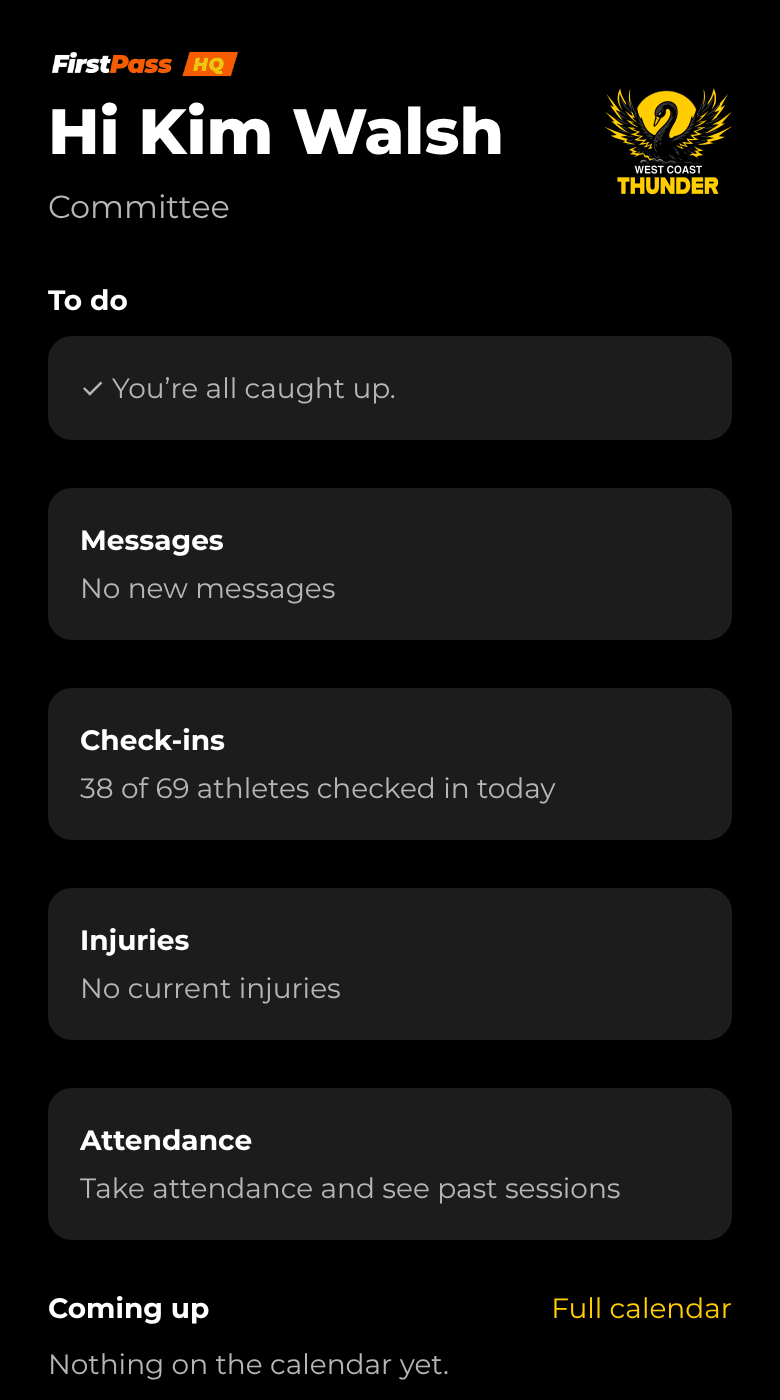
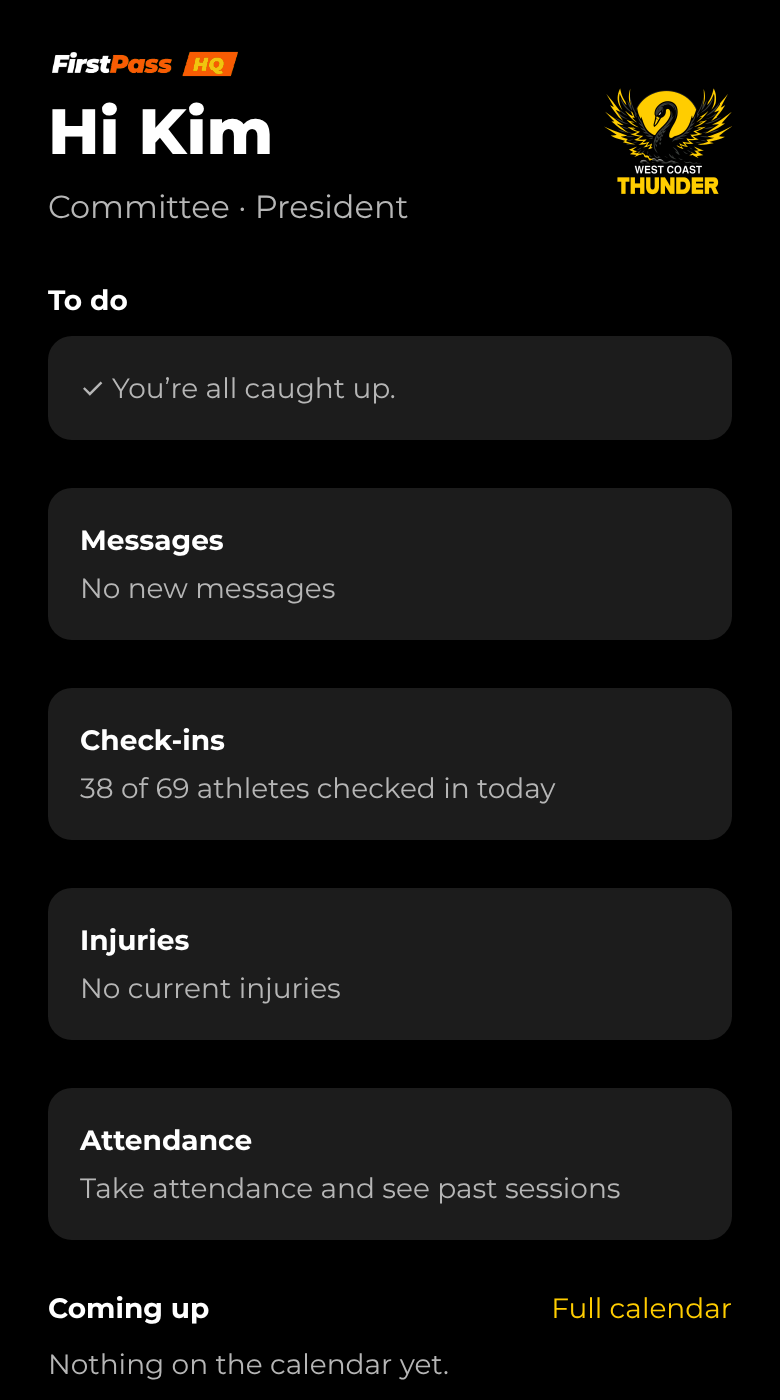
Let members set a preferred name, and committee and admins a title
The home screen greets members by their preferred name. Committee
members and admins can add a title (President, Secretary...) shown with
their role. Both are set from Your details; admins can set a title from
the member page. Additive migration: two nullable columns and three
functions.

Claude-Session: https://claude.ai/code/session_01P9tCKSnQVzBHvy9YQj8xEF

Changed region(s): [[0.3385, 0.0614, 0.6462, 0.1536]]

diff --git a/src/app/admin/[id].tsx b/src/app/admin/[id].tsx
@@ -10,6 +10,7 @@ import { formatDate, isMinor, parseDate } from '@/lib/age';
 import { PROFILE_COLUMNS, useAuth } from '@/lib/auth';
 import { useSquads } from '@/lib/club';
 import {
+  canHoldTitle,
   coachTitleLabels,
   isTeamRole,
   rejectionReasonLabels,
@@ -63,6 +64,7 @@ export default function MemberScreen() {
   const [dateOfBirth, setDateOfBirth] = useState('');
   const [wwccNumber, setWwccNumber] = useState('');
   const [wwccExpires, setWwccExpires] = useState('');
+  const [title, setTitle] = useState('');
   const [guardianIds, setGuardianIds] = useState<string[]>([]);
   const [guardianOf, setGuardianOf] = useState<string[]>([]);
   const [people, setPeople] = useState<Person[]>([]);
@@ -105,6 +107,7 @@ export default function MemberScreen() {
       setDateOfBirth(formatDate(profile.date_of_birth));
       setWwccNumber(profile.wwcc_number ?? '');
       setWwccExpires(formatDate(profile.wwcc_expires_on));
+      setTitle(profile.title ?? '');
       setReason(profile.rejection_reason);
       const links = linksResult.data ?? [];
       setGuardianIds(links.filter((l) => l.athlete_id === id).map((l) => l.guardian_id));
@@ -247,11 +250,24 @@ export default function MemberScreen() {
       p_under_17: hasGuardians,
       p_guardian_ids: hasGuardians ? guardianIds : [],
     });
-    setSaving(null);
     if (rpcError) {
+      setSaving(null);
       setError(rpcError.message);
       return;
     }
+    // After the role, because only committee members and admins have a title.
+    if (status === 'approved' && canHoldTitle(role) && title.trim() !== (member?.title ?? '')) {
+      const { error: titleError } = await supabase.rpc('admin_set_member_title', {
+        p_profile_id: id,
+        p_title: title,
+      });
+      if (titleError) {
+        setSaving(null);
+        setError(titleError.message);
+        return;
+      }
+    }
+    setSaving(null);
     if (isSelf) await refresh();
     router.back();
   }
@@ -305,6 +321,7 @@ export default function MemberScreen() {
 
       <Card>
         <Detail label="Status" value={statusLabels[member.status]} />
+        <Detail label="Preferred name" value={member.preferred_name} />
         <Detail label="Sign-in email" value={member.email} />
         <Detail label="PlayHQ email" value={member.playhq_email} />
         <Detail
@@ -335,6 +352,17 @@ export default function MemberScreen() {
         selected={[role]}
         onToggle={changeRole}
       />
+
+      {canHoldTitle(role) ? (
+        <TextField
+          label="Title"
+          value={title}
+          onChangeText={setTitle}
+          placeholder="President, Secretary, Treasurer…"
+          autoCapitalize="words"
+          maxLength={40}
+        />
+      ) : null}
 
       {inTeams ? (
         <ChipGroup

diff --git a/src/app/my-details.tsx b/src/app/my-details.tsx
@@ -1,0 +1,73 @@
+import { router } from 'expo-router';
+import { useState } from 'react';
+
+import { Screen } from '@/components/screen';
+import { ThemedText } from '@/components/themed-text';
+import { Button, ErrorText, TextField } from '@/components/ui';
+import { useAuth } from '@/lib/auth';
+import { canHoldTitle } from '@/lib/labels';
+import { supabase } from '@/lib/supabase';
+
+export default function MyDetailsScreen() {
+  const { profile, refresh } = useAuth();
+  const [preferredName, setPreferredName] = useState(profile?.preferred_name ?? '');
+  const [title, setTitle] = useState(profile?.title ?? '');
+  const [saving, setSaving] = useState(false);
+  const [error, setError] = useState<string | null>(null);
+
+  const hasTitle = profile?.status === 'approved' && canHoldTitle(profile.role);
+
+  async function save() {
+    setSaving(true);
+    setError(null);
+    const { error: rpcError } = await supabase.rpc('save_my_details', {
+      p_preferred_name: preferredName,
+      p_title: hasTitle ? title : null,
+    });
+    setSaving(false);
+    if (rpcError) {
+      setError(rpcError.message);
+      return;
+    }
+    await refresh();
+    router.back();
+  }
+
+  return (
+    <Screen>
+      <TextField
+        label="Preferred name"
+        value={preferredName}
+        onChangeText={setPreferredName}
+        placeholder={profile?.full_name ?? undefined}
+        autoComplete="name-given"
+        textContentType="nickname"
+        maxLength={40}
+      />
+      <ThemedText type="small" themeColor="textSecondary">
+        What you like to be called. The app greets you by it. Leave it blank to use your name
+        {profile?.full_name ? `, ${profile.full_name}` : ''}.
+      </ThemedText>
+
+      {hasTitle ? (
+        <>
+          <TextField
+            label="Title"
+            value={title}
+            onChangeText={setTitle}
+            placeholder="President, Secretary, Treasurer…"
+            autoCapitalize="words"
+            maxLength={40}
+          />
+          <ThemedText type="small" themeColor="textSecondary">
+            Your position at the club, shown with your role. Leave it blank if you don’t hold
+            one.
+          </ThemedText>
+        </>
+      ) : null}
+
+      <ErrorText>{error}</ErrorText>
+      <Button title="Save" onPress={save} busy={saving} />
+    </Screen>
+  );
+}

diff --git a/src/app/index.tsx b/src/app/index.tsx
@@ -35,7 +35,7 @@ import {
   usePendingRequests,
   useSafetyTodos,
 } from '@/lib/use-pending-requests';
-import { rejectionReasonMessages, roleLabels, teamPositionLabel } from '@/lib/labels';
+import { rejectionReasonMessages, roleWithTitle, teamPositionLabel } from '@/lib/labels';
 import { supabase } from '@/lib/supabase';
 import { buildTodos } from '@/lib/todos';
 import type { TeamMembership } from '@/lib/types';
@@ -129,7 +129,7 @@ export default function HomeScreen() {
     setRefreshing(false);
   }
 
-  const name = profile?.full_name || session?.user.email || 'there';
+  const name = profile?.preferred_name || profile?.full_name || session?.user.email || 'there';
   const approved = profile?.status === 'approved';
   const getsMessages = useGetsMessages();
 
@@ -140,7 +140,9 @@ export default function HomeScreen() {
           <FirstPassLogo size="header" />
           <ThemedText type="subtitle">Hi {name}</ThemedText>
           {approved && profile ? (
-            <ThemedText themeColor="textSecondary">{roleLabels[profile.role]}</ThemedText>
+            <ThemedText themeColor="textSecondary">
+              {roleWithTitle(profile.role, profile.title)}
+            </ThemedText>
           ) : null}
         </View>
         <Image
@@ -314,6 +316,14 @@ export default function HomeScreen() {
       ) : null}
 
       <View style={styles.footer}>
+        <Pressable
+          accessibilityRole="button"
+          onPress={() => router.push('/my-details')}
+          style={styles.footerLink}>
+          <ThemedText type="small" style={{ color: theme.tint }}>
+            Your details
+          </ThemedText>
+        </Pressable>
         <Pressable accessibilityRole="button" onPress={signOut} style={styles.footerLink}>
           <ThemedText type="small" style={{ color: theme.tint }}>
             Sign out
@@ -484,7 +494,9 @@ const styles = StyleSheet.create({
   },
   footer: {
     flexDirection: 'row',
+    flexWrap: 'wrap',
     justifyContent: 'space-between',
+    columnGap: Spacing.three,
   },
   footerLink: {
     paddingVertical: Spacing.two,

diff --git a/src/app/admin/index.tsx b/src/app/admin/index.tsx
@@ -7,7 +7,7 @@ import { ThemedText } from '@/components/themed-text';
 import { PressableCard, TextField } from '@/components/ui';
 import { Spacing } from '@/constants/theme';
 import { PROFILE_COLUMNS } from '@/lib/auth';
-import { rejectionReasonLabels, roleLabels } from '@/lib/labels';
+import { rejectionReasonLabels, roleLabels, roleWithTitle } from '@/lib/labels';
 import { safetyIssues } from '@/lib/safety';
 import { supabase } from '@/lib/supabase';
 import type { Profile } from '@/lib/types';
@@ -47,7 +47,7 @@ export default function MembersScreen() {
   const matching = members.filter(
     (m) =>
       !query ||
-      [m.full_name, m.email, m.playhq_email].some((v) => v?.toLowerCase().includes(query)),
+      [m.full_name, m.preferred_name, m.email, m.playhq_email].some((v) => v?.toLowerCase().includes(query)),
   );
   const waiting = matching
     .filter((m) => m.status === 'pending' && m.join_requested_at)
@@ -65,7 +65,7 @@ export default function MembersScreen() {
         label="Search"
         value={search}
         onChangeText={setSearch}
-        placeholder="Name or email"
+        placeholder="Name, preferred name or email"
         autoCapitalize="none"
       />
       <Section
@@ -87,7 +87,9 @@ export default function MembersScreen() {
         empty="No approved members yet."
         members={approved}
         describe={(m) =>
-          issues.get(m.id)?.length ? `${roleLabels[m.role]} · Needs checking` : roleLabels[m.role]
+          issues.get(m.id)?.length
+            ? `${roleLabels[m.role]} · Needs checking`
+            : roleWithTitle(m.role, m.title)
         }
       />
       <Section

diff --git a/src/lib/labels.ts b/src/lib/labels.ts
@@ -102,3 +102,13 @@ export function teamPositionLabel(
   if (selection) return selectionLabels[selection];
   return teamRoleLabels[teamRole];
 }
+
+/** Only committee members and admins have a title, such as President. */
+export function canHoldTitle(role: AppRole) {
+  return role === 'committee' || role === 'admin';
+}
+
+/** A member's role, with their title when they hold one: "Committee · President". */
+export function roleWithTitle(role: AppRole, title: string | null | undefined) {
+  return canHoldTitle(role) && title ? `${roleLabels[role]} · ${title}` : roleLabels[role];
+}

diff --git a/src/lib/auth.tsx b/src/lib/auth.tsx
@@ -22,7 +22,7 @@ type AuthState = {
 };
 
 export const PROFILE_COLUMNS =
-  'id, email, full_name, playhq_email, role, status, requested_role, requested_team_id, join_requested_at, under_17, rejection_reason, verified_at, date_of_birth, wwcc_number, wwcc_expires_on';
+  'id, email, full_name, preferred_name, title, playhq_email, role, status, requested_role, requested_team_id, join_requested_at, under_17, rejection_reason, verified_at, date_of_birth, wwcc_number, wwcc_expires_on';
 
 const AuthContext = createContext<AuthState | null>(null);
 

diff --git a/src/app/_layout.tsx b/src/app/_layout.tsx
@@ -152,6 +152,7 @@ function RootStack() {
             <Stack.Screen name="goals/game" options={{ title: 'Game goals' }} />
             <Stack.Screen name="goals/team" options={{ title: 'Team goals' }} />
           </Stack.Protected>
+          <Stack.Screen name="my-details" options={{ title: 'Your details' }} />
           <Stack.Screen name="delete-account" options={{ title: 'Delete account' }} />
           <Stack.Protected guard={isAdmin}>
             <Stack.Screen name="administration" options={{ title: 'Administration' }} />

diff --git a/src/lib/types.ts b/src/lib/types.ts
@@ -49,6 +49,10 @@ export type Profile = {
   id: string;
   email: string | null;
   full_name: string | null;
+  /** What they like to be called, set by the member. */
+  preferred_name: string | null;
+  /** Committee members and admins only, e.g. President or Secretary. */
+  title: string | null;
   playhq_email: string | null;
   role: AppRole;
   status: MemberStatus;

diff --git a/docs/user-guide.md b/docs/user-guide.md
@@ -34,10 +34,10 @@ one or more **squads** or **teams** for the current season.
 | **Guardian**  | Parents and guardians of athletes under 18.                                                          |
 | **Coach**     | Head coaches and assistant coaches. Both have the same permissions; the title only shows who is who. Need a current Working With Children Check. |
 | **Manager**   | Squad and team managers. Need a current Working With Children Check.                                 |
-| **Committee** | Club committee members.                                                                              |
+| **Committee** | Club committee members. Each can add a title, such as President or Secretary, shown with their role. |
 | **Physio**    | The club's physiotherapists. Need a current Working With Children Check.                             |
 | **Guest**     | Anyone else the club lets in, such as partners and sponsors. Guests can only look.                   |
-| **Admin**     | The people who run the app. Admin is granted by another admin, never requested.                      |
+| **Admin**     | The people who run the app. Admin is granted by another admin, never requested. Admins can add a title too. |
 
 **Squads and teams.** Each season, members join a **squad** (Mixed Open Squad, Open Squad,
 20 & Under Squad, 17 & Under Squad, Lightning Academy). At selections, admins name **teams** from a
@@ -70,6 +70,8 @@ What each role sees on its home screen:
 | Vote in club awards                    |    ✓    |        ✓        |      ✓       |     ✓      |       ✓       |               |         |       ✓       |
 | Set up awards and see results          |         |                 |              |            |               |               |         |       ✓       |
 | Import fixtures from PlayHQ            |         |                 |              |            |               |               |         |       ✓       |
+| Preferred name                         |    ✓    |        ✓        |      ✓       |     ✓      |       ✓       |       ✓       |    ✓    |       ✓       |
+| Title, such as President               |         |                 |              |            |       ✓       |               |         |       ✓       |
 | Club name, colours, logo and features  |         |                 |              |            |               |               |         |       ✓       |
 | Invite members (QR code and link)      |         |                 |              |            |               |               |         |       ✓       |
 | Administration                         |         |                 |              |            |               |               |         |       ✓       |
@@ -190,11 +192,23 @@ Once you're approved, the home screen is where everything starts. From the top:
 - **Coming up**: the next six events from your calendars. Tap **Full calendar** to see them all.
 - **My squads and teams**: tap one to see who's in it. A team's page also has its
   [game goals](#game-goals) for its athletes and coaches.
-- **Sign out**, **Switch club** and **Delete account** at the bottom.
+- **Your details**, **Sign out**, **Switch club** and **Delete account** at the bottom.
 
 Pull down on any screen to refresh it.
 
 <img src="user-guide/home-athlete.png" width="210" alt="Athlete home screen">
+
+### Your preferred name
+
+The home screen greets you by name. To be called something else, such as a nickname, tap **Your
+details** at the bottom of the home screen, enter your **Preferred name** and tap **Save**. Leave it
+blank to go back to your full name. Admins still see your full name, with your preferred name on
+your member page, and can search for you by either.
+
+Committee members and admins also see a **Title** field, for a position such as President,
+Secretary or Treasurer. It shows under your name with your role, like "Committee · President".
+
+<img src="user-guide/your-details.png" width="210" alt="Your details: preferred name and title">
 
 ### Messages
 
@@ -775,12 +789,16 @@ club** or **Other**) and tap **Don't approve**. They see the reason and can requ
 
 ### Changing or removing members
 
-Open any member to change their role, squads, teams or titles, then tap **Save changes**.
+Open any member to change their role, squads, teams or titles, then tap **Save changes**. A
+committee member's or admin's page has a **Title** field (President, Secretary and so on), which
+shows on their home screen and in the Members list. The card at the top shows their **Preferred
+name** if they've set one.
 
 - **Remove access** stops someone using the app but keeps their account. Choose a reason first.
 - **Delete member** permanently deletes their account, squad and team places, guardian links and
   message receipts. Messages they sent stay, and their injury records are kept for 12 months.
 
+<img src="user-guide/member-title.png" width="210" alt="A committee member's page with their preferred name and title">
 <img src="user-guide/delete-member.png" width="210" alt="Delete member confirmation">
 
 ### Squads, teams and selections
@@ -1037,6 +1055,7 @@ once saved, only replaced or removed.
 | Information             | Who can see it                                                                                                              |
 | ----------------------- | --------------------------------------------------------------------------------------------------------------------------- |
 | Your profile and squads | You, the people in your squads and teams (names and positions only), and admins.                                            |
+| Preferred name and title | You and admins.                                                                                                            |
 | Captains                | Club captains: every member. A squad or team's captains: the people in it, and admins.                                     |
 | Date of birth and Working With Children Check | You and admins. Awards with an age limit use it to decide who can be voted for, without showing it.   |
 | Messages                | The people they were sent to, the sender, and admins. Guardians of athletes under 18 get a copy of every message sent to their athlete, and of every message their athlete sends as a captain. Guests don't get messages; physios get messages sent to the Physio role, and whole-club messages only if an admin turns that on. |
